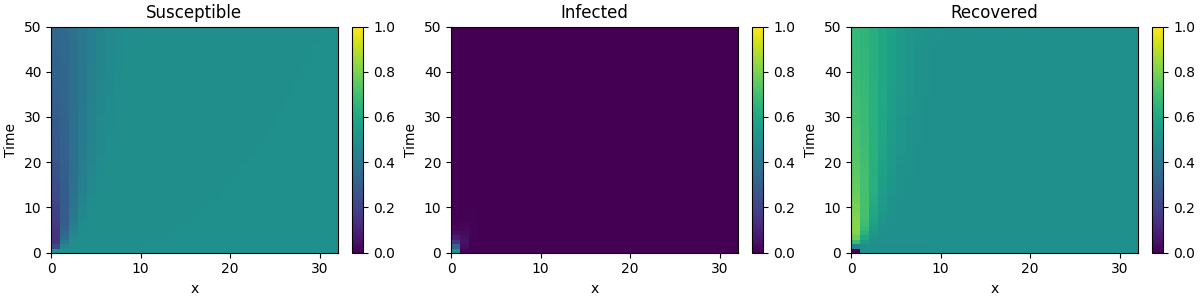
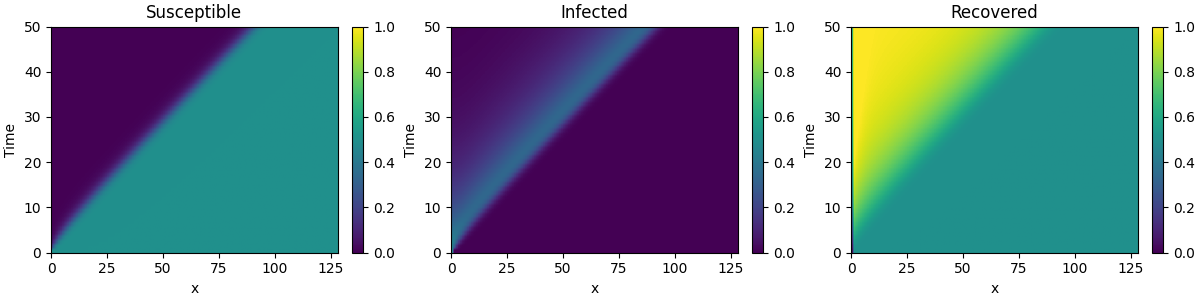
sir

diff --git a/2022/sirb.py b/2022/sirb.py
@@ -1,0 +1,69 @@
+from pde import FieldCollection, PDEBase, ScalarField, UnitGrid, plot_kymographs, MemoryStorage
+
+
+class SIRPDE(PDEBase):
+    """SIR-model with diffusive mobility"""
+
+    def __init__(self,
+                 direct_transmission=0.3,
+                 recovery=0.9,
+                 indirect_transmission=.2,
+                 shedding=10.,
+                 death=0.1,
+                 speed=.01,
+                 diffusivity=0.1,
+                 bc="auto_periodic_neumann"
+                 ):
+        self.direct_transmission = direct_transmission
+        self.recovery = recovery
+        self.indirect_transmission = indirect_transmission
+        self.shedding = shedding
+        self.death = death
+        self.speed = speed
+        self.diffusivity = diffusivity
+        self.bc = bc
+
+    def get_state(self, s, i, b):
+        norm = (s + i).data.max()
+        if norm > 1:
+            s /= norm
+            i /= norm
+        s.label = "Susceptible"
+        i.label = "Infected"
+        b.label = "Bacteria"
+
+        r = ScalarField(s.grid, data=1 - s - i, label="Recovered")
+        return FieldCollection([s, i, r, b])
+
+    def evolution_rate(self, state, t=0):
+        s, i, r, b = state
+        diff = self.diffusivity
+        ds_dt = diff * s.laplace(self.bc) - self.direct_transmission * i * s - self.indirect_transmission * b * s
+        di_dt = diff * i.laplace(
+            self.bc) + self.direct_transmission * i * s - self.recovery * i + self.indirect_transmission * b * s
+        dr_dt = diff * r.laplace(self.bc) + self.recovery * i
+        db_dt = diff * b.laplace(self.bc) + self.shedding * i - self.speed * b.gradient(self.bc) - self.death * b
+        return FieldCollection([ds_dt, di_dt, dr_dt, db_dt])
+
+
+direct_transmission = .5
+recovery = .1
+indirect_transmission = .1
+shedding = 1.
+death = .5
+speed = 1.
+diffusivity = .1
+eq = SIRPDE(direct_transmission=direct_transmission, recovery=recovery, indirect_transmission=indirect_transmission,
+            shedding=shedding, death=death, speed=speed, diffusivity=diffusivity)
+
+size = 128
+grid = UnitGrid([size])
+s = ScalarField(grid, 1)
+i = ScalarField(grid, 0)
+b = ScalarField(grid, 0)
+b.data[size // 2] = 1
+state = eq.get_state(s, i, b)
+
+storage = MemoryStorage()
+sol = eq.solve(state, t_range=100, dt=1e-2, tracker=["progress", storage.tracker(1)])
+plot_kymographs(storage, vmin=0, vmax=1, filename="sirb.png")

diff --git a/2022/sir1D.py b/2022/sir1D.py
@@ -1,5 +1,4 @@
-from pde import FieldCollection, PDEBase, PlotTracker, ScalarField, UnitGrid, plot_kymographs, MemoryStorage
-import matplotlib.pyplot as plt
+from pde import FieldCollection, PDEBase, ScalarField, UnitGrid, plot_kymographs, MemoryStorage
 
 
 class SIRPDE(PDEBase):
@@ -29,17 +28,17 @@ class SIRPDE(PDEBase):
     def evolution_rate(self, state, t=0):
         s, i, r = state
         diff = self.diffusivity
-        ds_dt = diff * s.laplace(self.bc) - self.beta * i * s
+        ds_dt = 0*diff * s.laplace(self.bc) - self.beta * i * s
         di_dt = diff * i.laplace(self.bc) + self.beta * i * s - self.gamma * i
-        dr_dt = diff * r.laplace(self.bc) + self.gamma * i
+        dr_dt = 0*diff * r.laplace(self.bc) + self.gamma * i
         return FieldCollection([ds_dt, di_dt, dr_dt])
 
 
-beta, gamma, diffusivity = 2., 1., 0.1
+beta, gamma, diffusivity = 2., .1, 1.
 eq = SIRPDE(beta=beta, gamma=gamma, diffusivity=diffusivity)
 
 # initialize state
-grid = UnitGrid([32])
+grid = UnitGrid([128])
 s = ScalarField(grid, 1)
 i = ScalarField(grid, 0)
 i.data[0] = 1
@@ -49,7 +48,3 @@ state = eq.get_state(s, i)
 storage = MemoryStorage()
 sol = eq.solve(state, t_range=50, dt=1e-2, tracker=["progress", storage.tracker(1)])
 plot_kymographs(storage, vmin=0, vmax=1, filename="sir1D.png")
-
-R0 = beta / gamma
-c = 2 * (diffusivity * (beta - gamma)) ** .5
-print(c)
